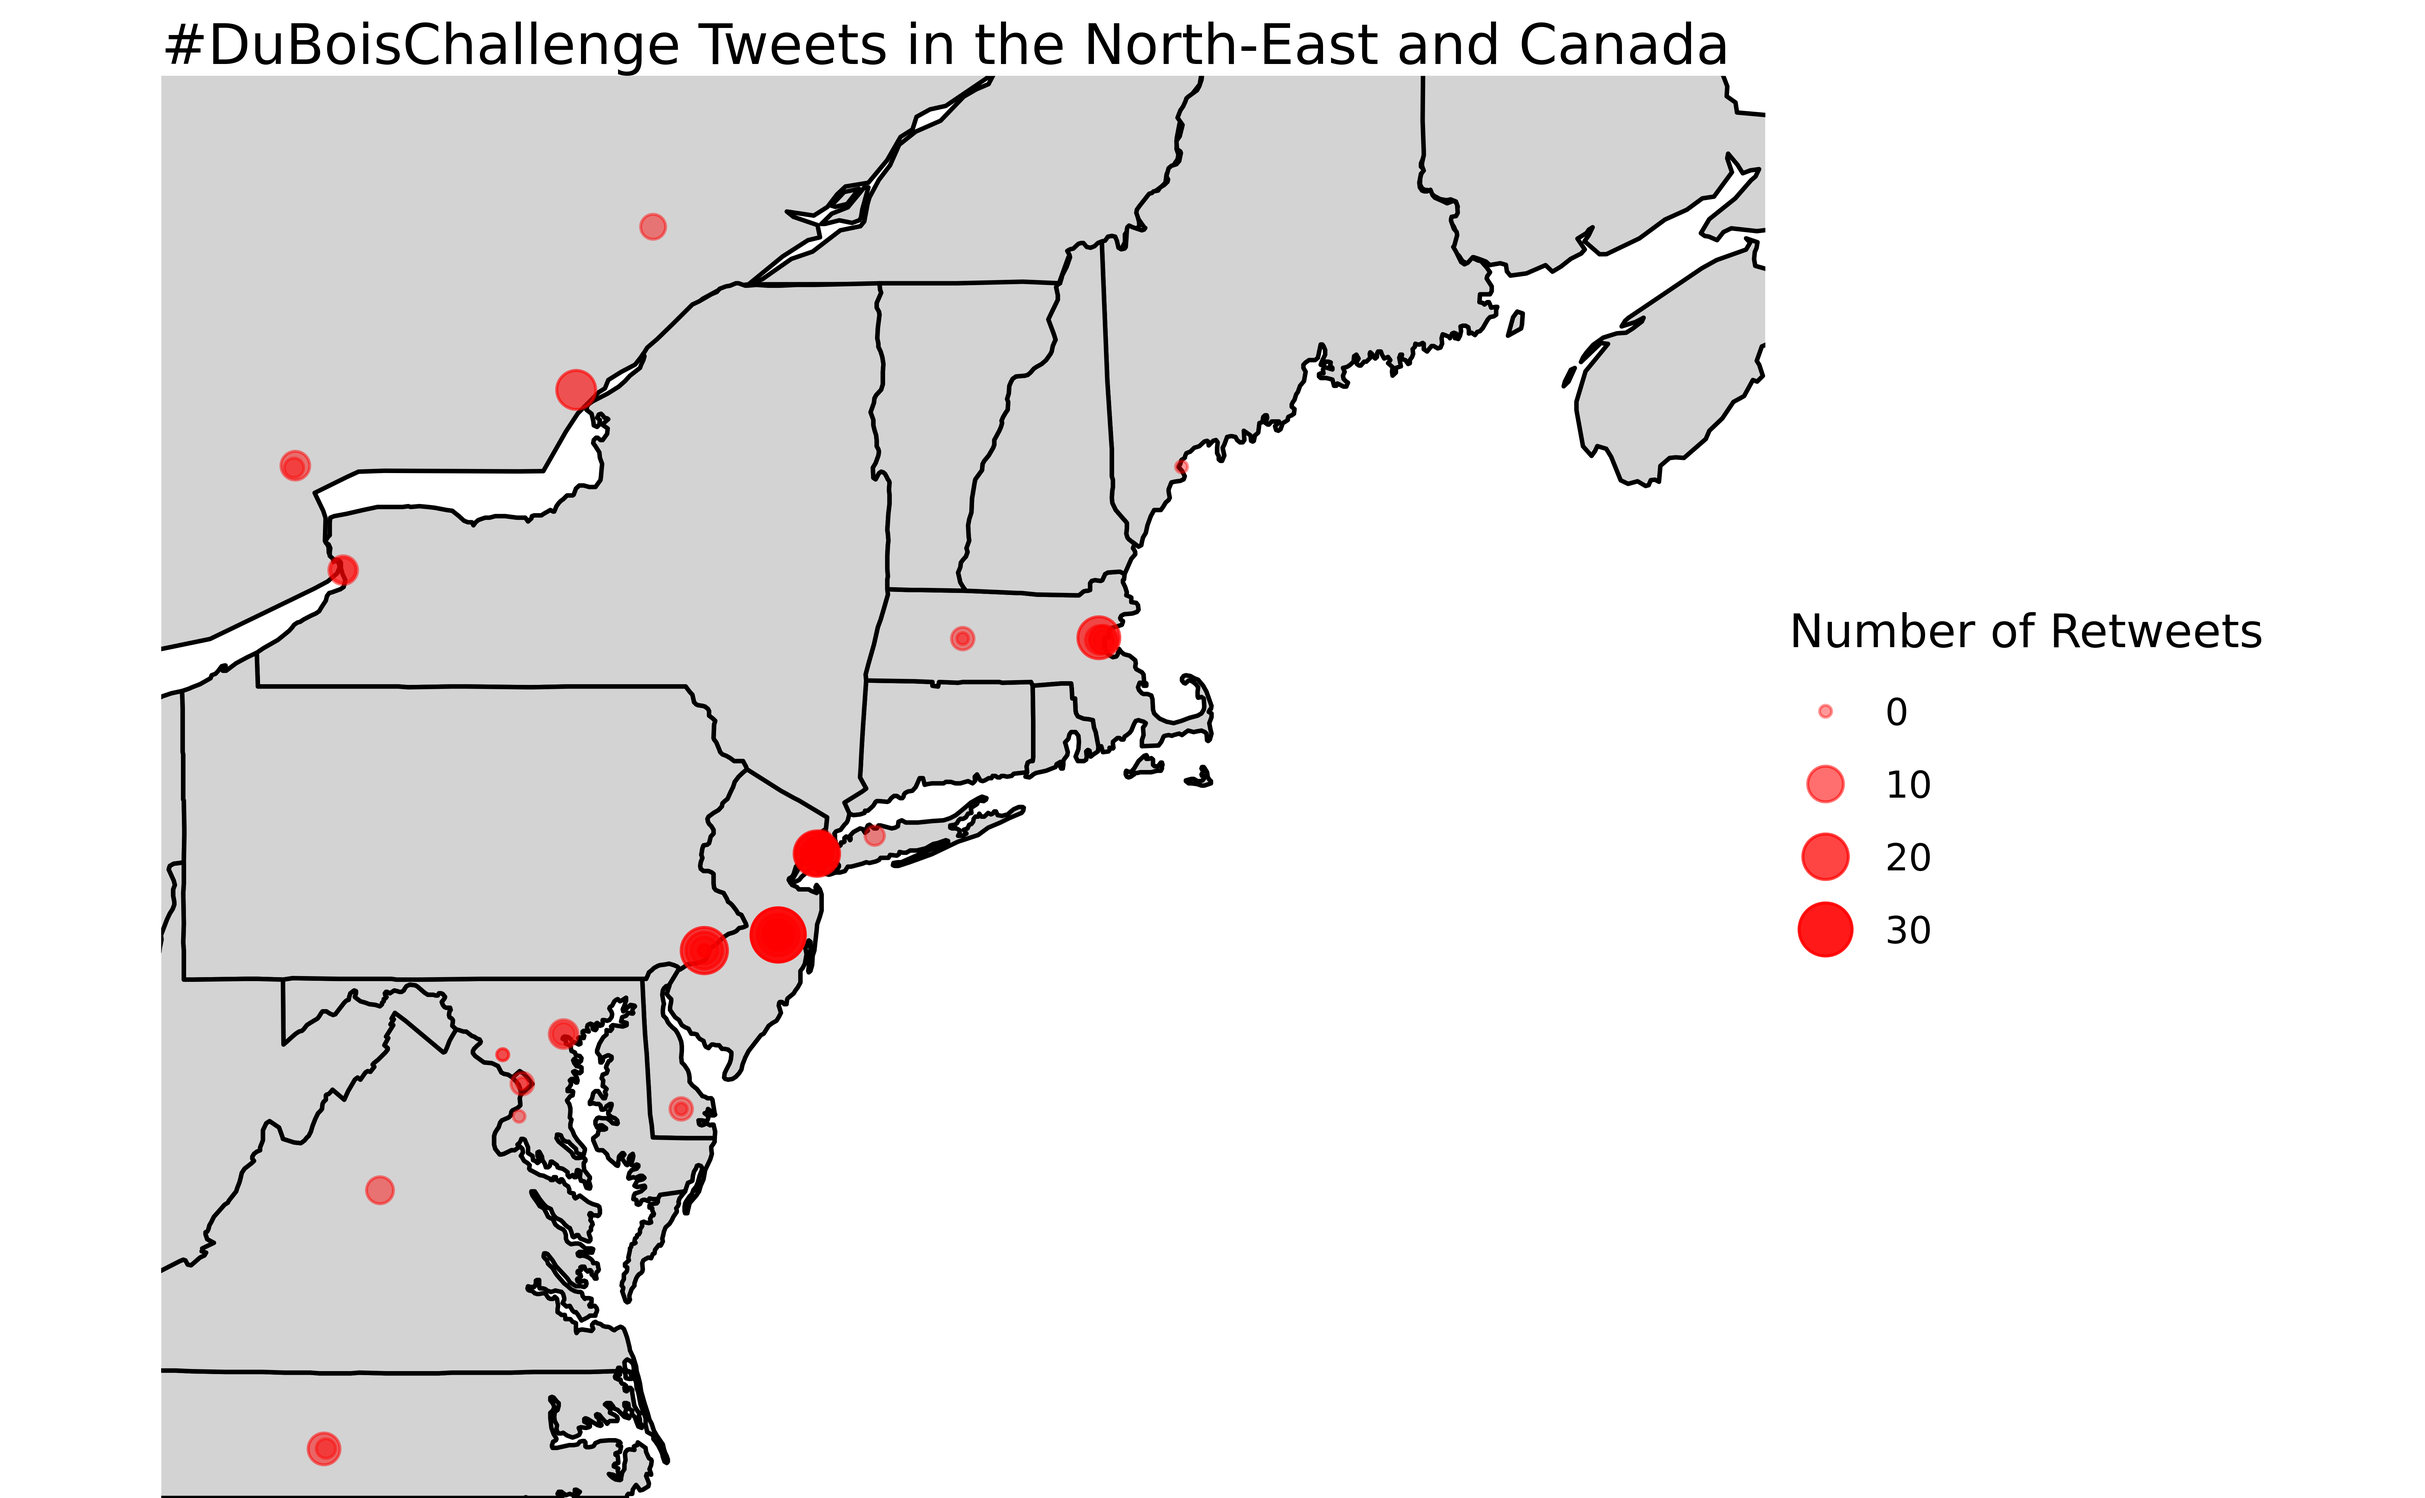
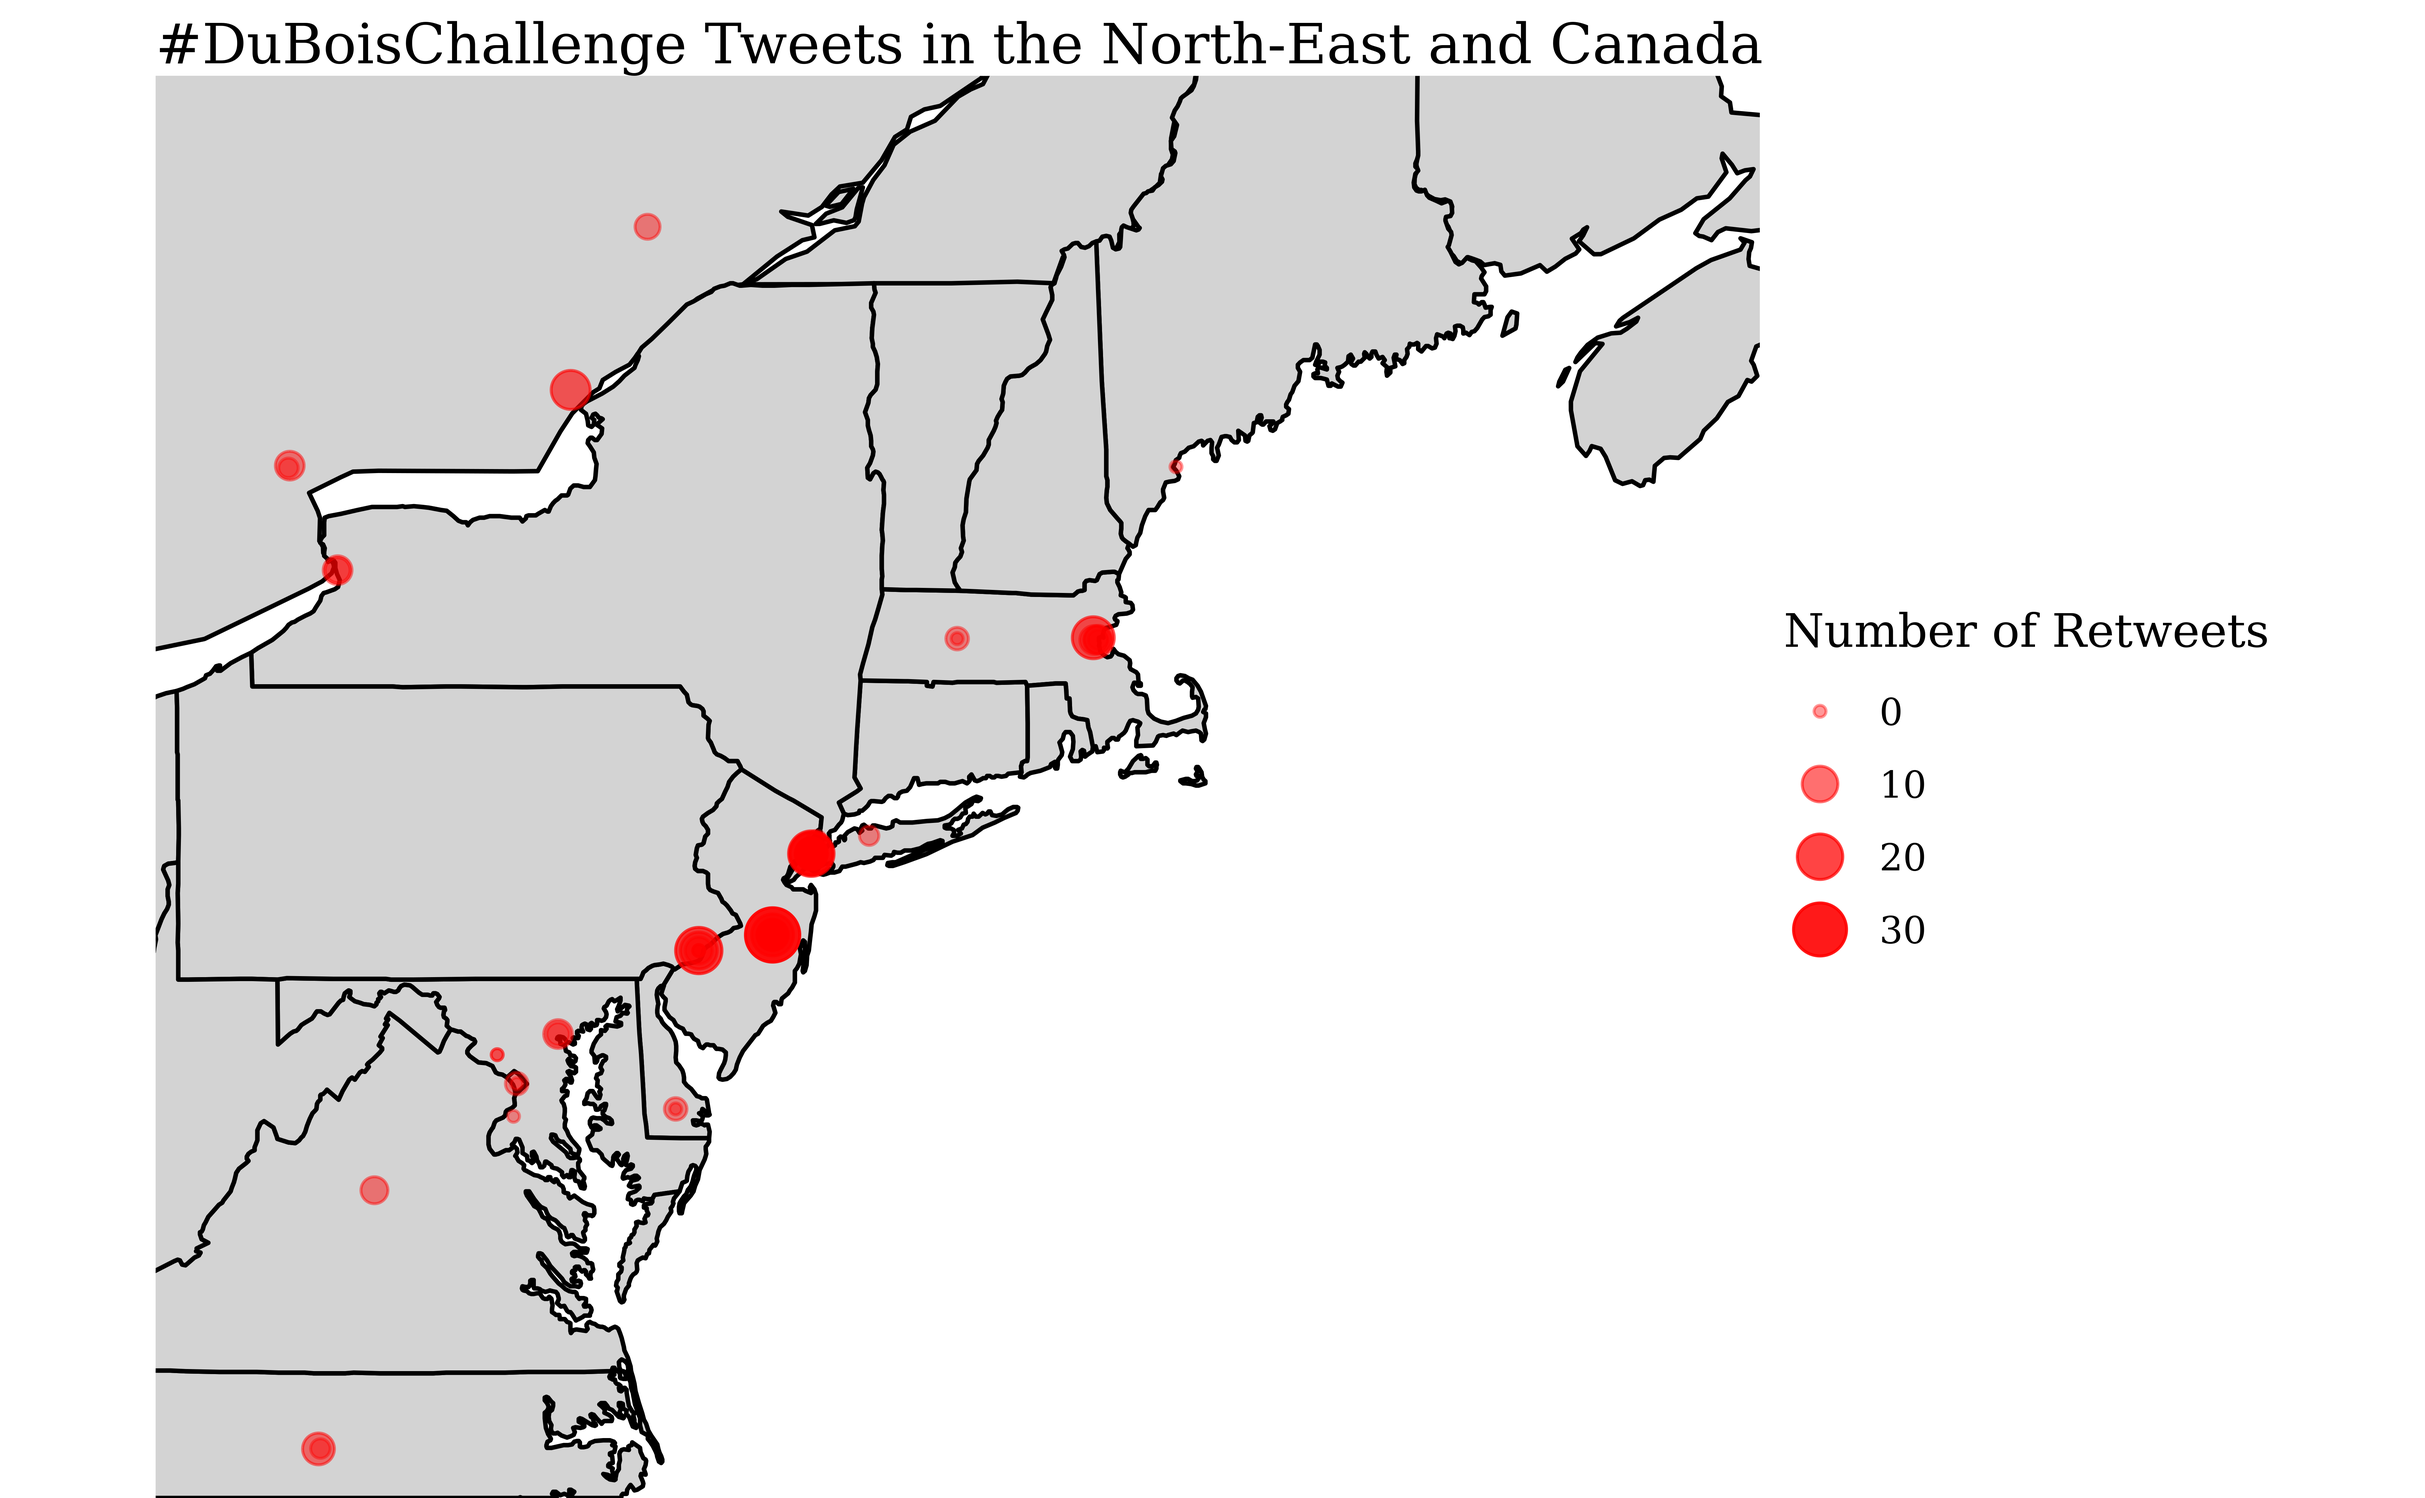
Created box plot for second questions plot one

diff --git a/README.md b/README.md
@@ -48,6 +48,18 @@ library(rvest)
 
 ``` r
 library(ggthemes)
+library(lubridate)
+```
+
+    ## 
+    ## Attaching package: 'lubridate'
+
+    ## The following objects are masked from 'package:base':
+    ## 
+    ##     date, intersect, setdiff, union
+
+``` r
+library(stringr)
 # cleanFun <- function(htmlString) {
 #   return(gsub("<.*?>", "", htmlString))
 # }
@@ -177,7 +189,8 @@ ggplot(data = top_10_locations, aes(y = plot_state, x = n, fill = internat)) +
     title = "Top 10 Most Popular #DuBoisChallenge Tweet Locations",
     fill = "Location"
   ) +
-  theme_minimal()
+  theme_minimal() +
+  theme(text = element_text(family = "Times New Roman"))
 ```
 
 <img src="README_files/figure-gfm/question-one-plot-one-1.png" width="90%" />
@@ -195,6 +208,7 @@ europe_tweets <- tweets %>%
 ```
 
 ``` r
+# world map/eu code taken from https://www.r-bloggers.com/2019/04/zooming-in-on-maps-with-sf-and-ggplot2/
 world_map <- ne_countries(scale = 'medium', type = 'map_units',
                          returnclass = 'sf')
 us_map <- map_data("state")
@@ -228,7 +242,8 @@ ggplot() +
        size = "Number of Retweets",
        alpha = "Number of Retweets") +
   theme_minimal() +
-  theme_void()
+  theme_void() +
+  theme(text = element_text(family = "Times New Roman"))
 ```
 
 <img src="README_files/figure-gfm/question-one-plot-two-1.png" width="90%" />
@@ -244,7 +259,8 @@ ggplot() +
        size = "Number of Retweets",
        alpha = "Number of Retweets") +
   theme_void() +
-  coord_sf(xlim = c(-20, 45), ylim = c(30, 73), expand = FALSE)
+  coord_sf(xlim = c(-20, 45), ylim = c(30, 73), expand = FALSE) +
+  theme(text = element_text(family = "Times New Roman"))
 ```
 
 <img src="README_files/figure-gfm/question-one-plot-two-2.png" width="90%" />
@@ -259,94 +275,8 @@ plots. Speculate about why the data looks the way it does.
 
 The second question we want to answer is:
 
-*How does the time of day affect user construction of \#DuBois challenge
-tweets and how the audience reacts to those tweets?*
-
-First, we’ll compute the length of each tweet’s content, operationalized
-by the number of characters, including spaces and emojis, in the tweet,
-and assign it to a numeric variable `tweet_length`.
-
-``` r
-library(lubridate)
-```
-
-    ## 
-    ## Attaching package: 'lubridate'
-
-    ## The following objects are masked from 'package:base':
-    ## 
-    ##     date, intersect, setdiff, union
-
-``` r
-# tweets <- tweets %>%
-#   filter(!is.na(datetime))%>%
-#   mutate(time = (as.numeric(str_sub(datetime, start=12, end=13))),
-#         date = ymd(str_sub(datetime, start = 1, end = 11)),
-#         content = str_replace_all(as.character(content), "&amp", ""),
-#         content = str_replace_all(as.character(content), "\\^@", ""),
-#         tweet_length = nchar(as.character(content)))
-
-#We intend to plot number of @'s in a tweet
-
-
-# tweets %>%
-#   arrange(desc(tweet_length)) %>%
-#   select(content, tweet_length) %>%
-#   head(5)
-# 
-# ggplot(tweets, aes(x=date, y = tweet_length)) + 
-#   geom_col()
-```
-
-``` r
-tweets %>%
-  filter(verified == TRUE) %>%
-  nrow()
-```
-
-    ## [1] 4
-
-Thus, for a second visualization, we will use the variables `followers`,
-`verified` and `like_count`. We will map `followers` to the x axis, and
-`like_count` to the y axis, and then display the data for each twitter
-user using geom\_point. Since some users may have tweeted multiple
-times, we will calculate `average_like_count` per tweet for each user,
-and use that number in place of the actual `like_count` variable. This
-means for users who only tweeted once, we will use the like count for
-that tweet, while for users who tweeted multiple times, we will use the
-average like count across all of their challenge tweets. We chose to
-focus on individual users since in the previous visualization we were
-looking into cumulative tweets, on a non per-user basis. This way, for
-this question, we will be able to gauge Twitter engagement in the Dubois
-challenge on a per user basis, marking a contrast between our questions.
-Then, we will use color mapping to map the verification status of the
-tweet author to the colors of the points, such that viewers can easily
-distinguish between the two groups (if the groups are not
-distinguishable, another option is to facet by verification status - we
-will make a choice about this after seeing how the data looks). Further,
-we’ll display a geom\_smooth regression line for verified and unverified
-users (if these lines become visually distracting, we will reconsider
-using them). With these lines, we’ll be able to examine the interaction
-between verification and followers and its effect on the number of likes
-a tweet can generate.
-
-``` r
-# tweets <- tweets %>%
-#   group_by(username) %>%
-#   mutate(average_like_count = mean(like_count))
-# 
-# 
-# tweets_time<- tweets%>%
-#   mutate(time_range=case_when(time<=7~"Time 1", 
-#                               time>7 & time <=15~ "Time 2", 
-#                               time >15~"Time 3"))
-# ggplot(tweets_time, aes(followers, average_like_count))+
-#   geom_point()+
-#   facet_grid(~time_range)+
-#   scale_x_continuous(limits=c(0, 10000))+
-#   scale_y_continuous(limits=c(0, 200))
-#   
-```
+*How does the tweet timing affect user construction of \#DuBois
+challenge tweets and how the audience reacts to those tweets?*
 
 ### Introduction
 
@@ -371,6 +301,66 @@ to provide nice axis labels and guides. You are welcome to use theme
 functions to customize the appearance of your plot, but you are not
 required to do so. All plots must be made with ggplot2. Do not use base
 R or lattice plotting functions.
+
+``` r
+tweets_time <- tweets %>% 
+  filter(!is.na(datetime)) %>%
+  mutate(tag_count = str_count(content, "@"),
+         time = as.numeric(str_sub(datetime, start=12, end=13)),
+         date = ymd(str_sub(datetime, start = 1, end = 11)),
+         month = month(date),
+         month_name = case_when(
+           month == 2 ~ "February",
+           month == 3 ~ "March",
+           month == 4 ~ "April",
+           month == 5 ~ "May"
+         )
+         )
+```
+
+``` r
+# tweets <- tweets %>%
+#   group_by(username) %>%
+#   mutate(average_like_count = mean(like_count))
+# 
+# 
+# tweets_time<- tweets%>%
+#   mutate(time_range=case_when(time<=7~"Time 1", 
+#                               time>7 & time <=15~ "Time 2", 
+#                               time >15~"Time 3"))
+# ggplot(tweets_time, aes(followers, average_like_count))+
+#   geom_point()+
+#   facet_grid(~time_range)+
+#   scale_x_continuous(limits=c(0, 10000))+
+#   scale_y_continuous(limits=c(0, 200))
+#   
+
+ggplot(tweets_time, aes(x = month_name, y = tag_count, color = month_name)) + 
+  geom_boxplot(show.legend = FALSE) +
+  scale_color_colorblind() +
+  scale_y_continuous(breaks = c(0, 2, 4, 6, 8, 10, 12)) +
+  labs(
+    x = "Month Tweeted",
+    y = "Number of People Tagged",
+    title = "When #DuBoisChallenge Tweeters Tagged People"
+  ) +
+  theme(text = element_text(family = "Times New Roman"))
+```
+
+<img src="README_files/figure-gfm/question-two-plot-one-1.png" width="90%" />
+
+``` r
+ggplot(tweets_time, aes(x = date, y = like_count, color = as.factor(tag_count))) + 
+  geom_point() +
+  scale_color_colorblind() 
+```
+
+    ## Warning: This manual palette can handle a maximum of 8 values. You have supplied
+    ## 10.
+
+    ## Warning: Removed 3 rows containing missing values (geom_point).
+
+<img src="README_files/figure-gfm/question-two-plot-two-1.png" width="90%" />
 
 ### Discussion
 
